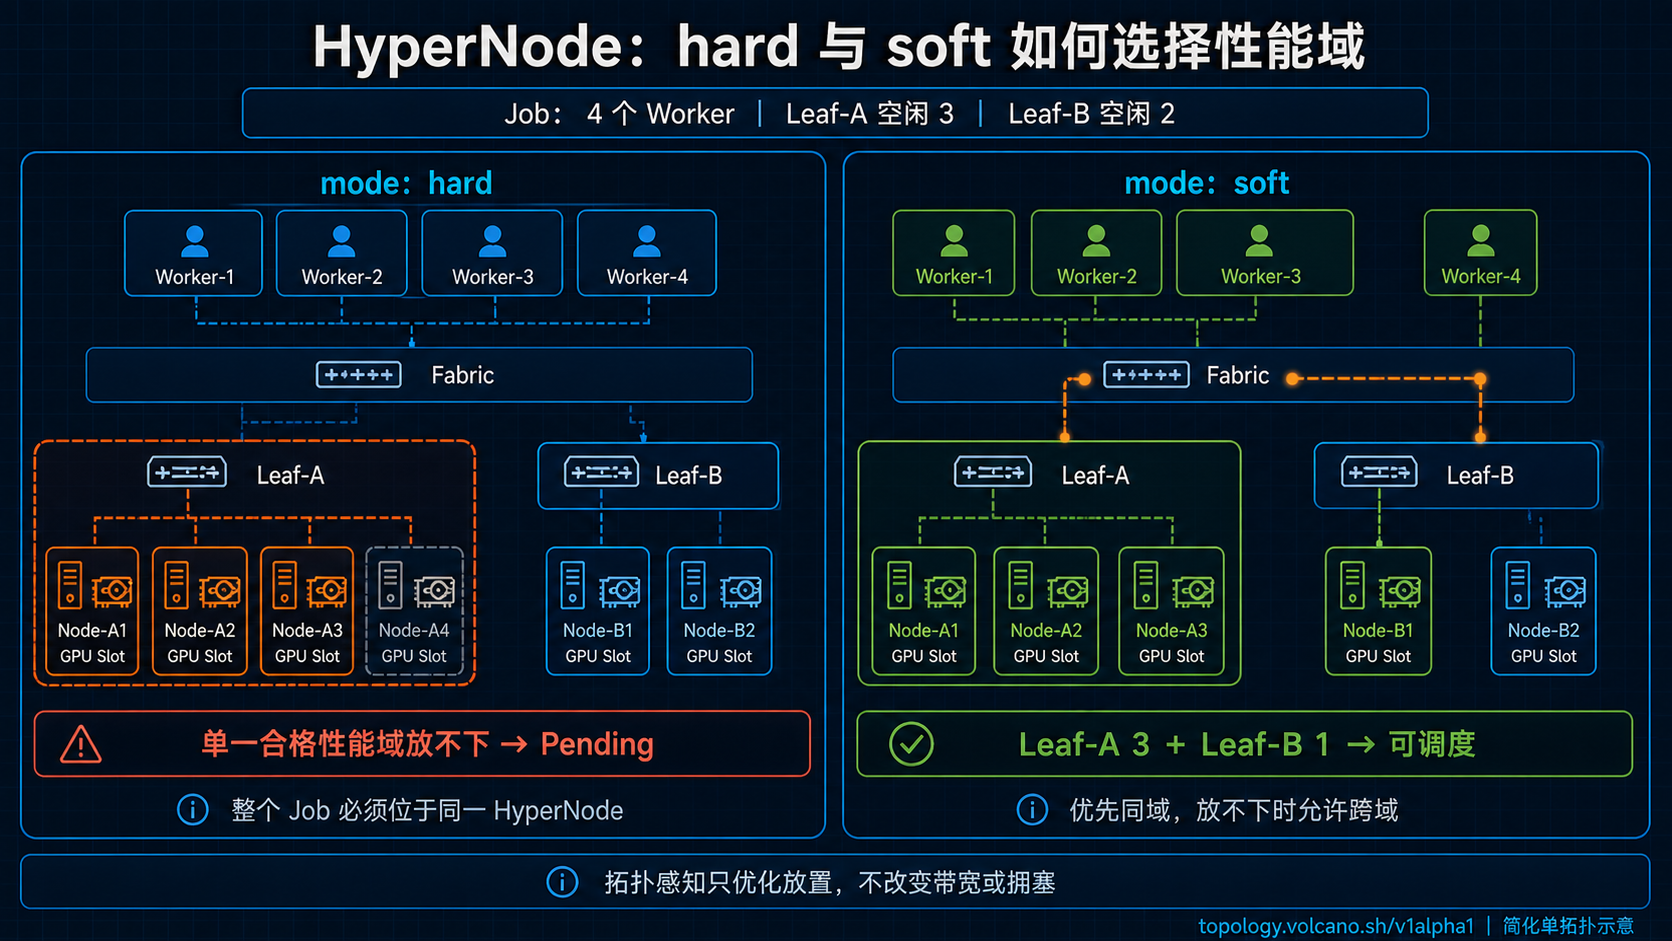
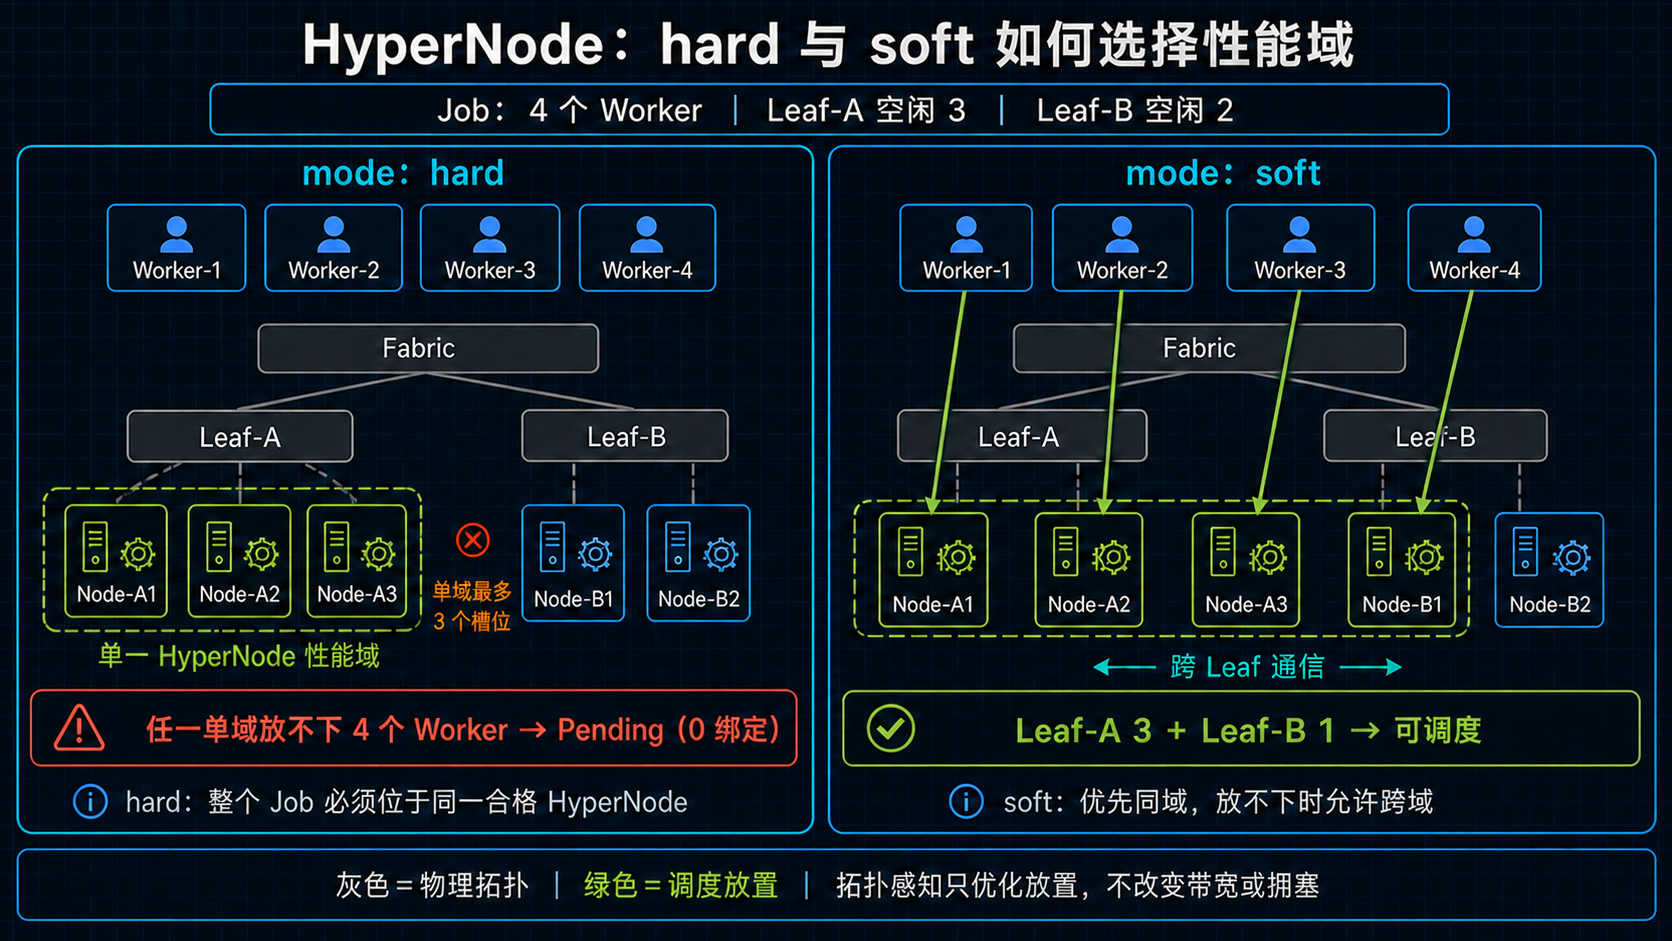
clarify HyperNode placement diagram

diff --git a/一文搞懂 Volcano：Kubernetes 为什么还需要一个 AI 调度器？.md b/一文搞懂 Volcano：Kubernetes 为什么还需要一个 AI 调度器？.md
@@ -376,7 +376,7 @@ HyperNode 可以手工创建，也可以通过节点标签或 InfiniBand UFM 自
 
 ![HyperNode hard 与 soft 拓扑放置差异](assets/volcano/04-hypernode-hard-soft.png)
 
-*图 5：Hard 要求整个 Job 或子组装进同一个合格性能域；Soft 优先同域，但必要时允许跨域，以排队时间换取通信局部性。*
+*图 5：灰色线表示简化的物理拓扑，绿色线表示实际的调度放置。Hard 要求整个 Job 或子组装进同一个合格性能域，因此任一单域只有 3 个槽位时不会部分绑定；Soft 优先同域，但必要时允许按 `Leaf-A 3 + Leaf-B 1` 跨域放置，以排队时间换取通信局部性。*
 
 ## 9. Volcano 与 GPU Operator、Device Plugin 是什么关系
 
